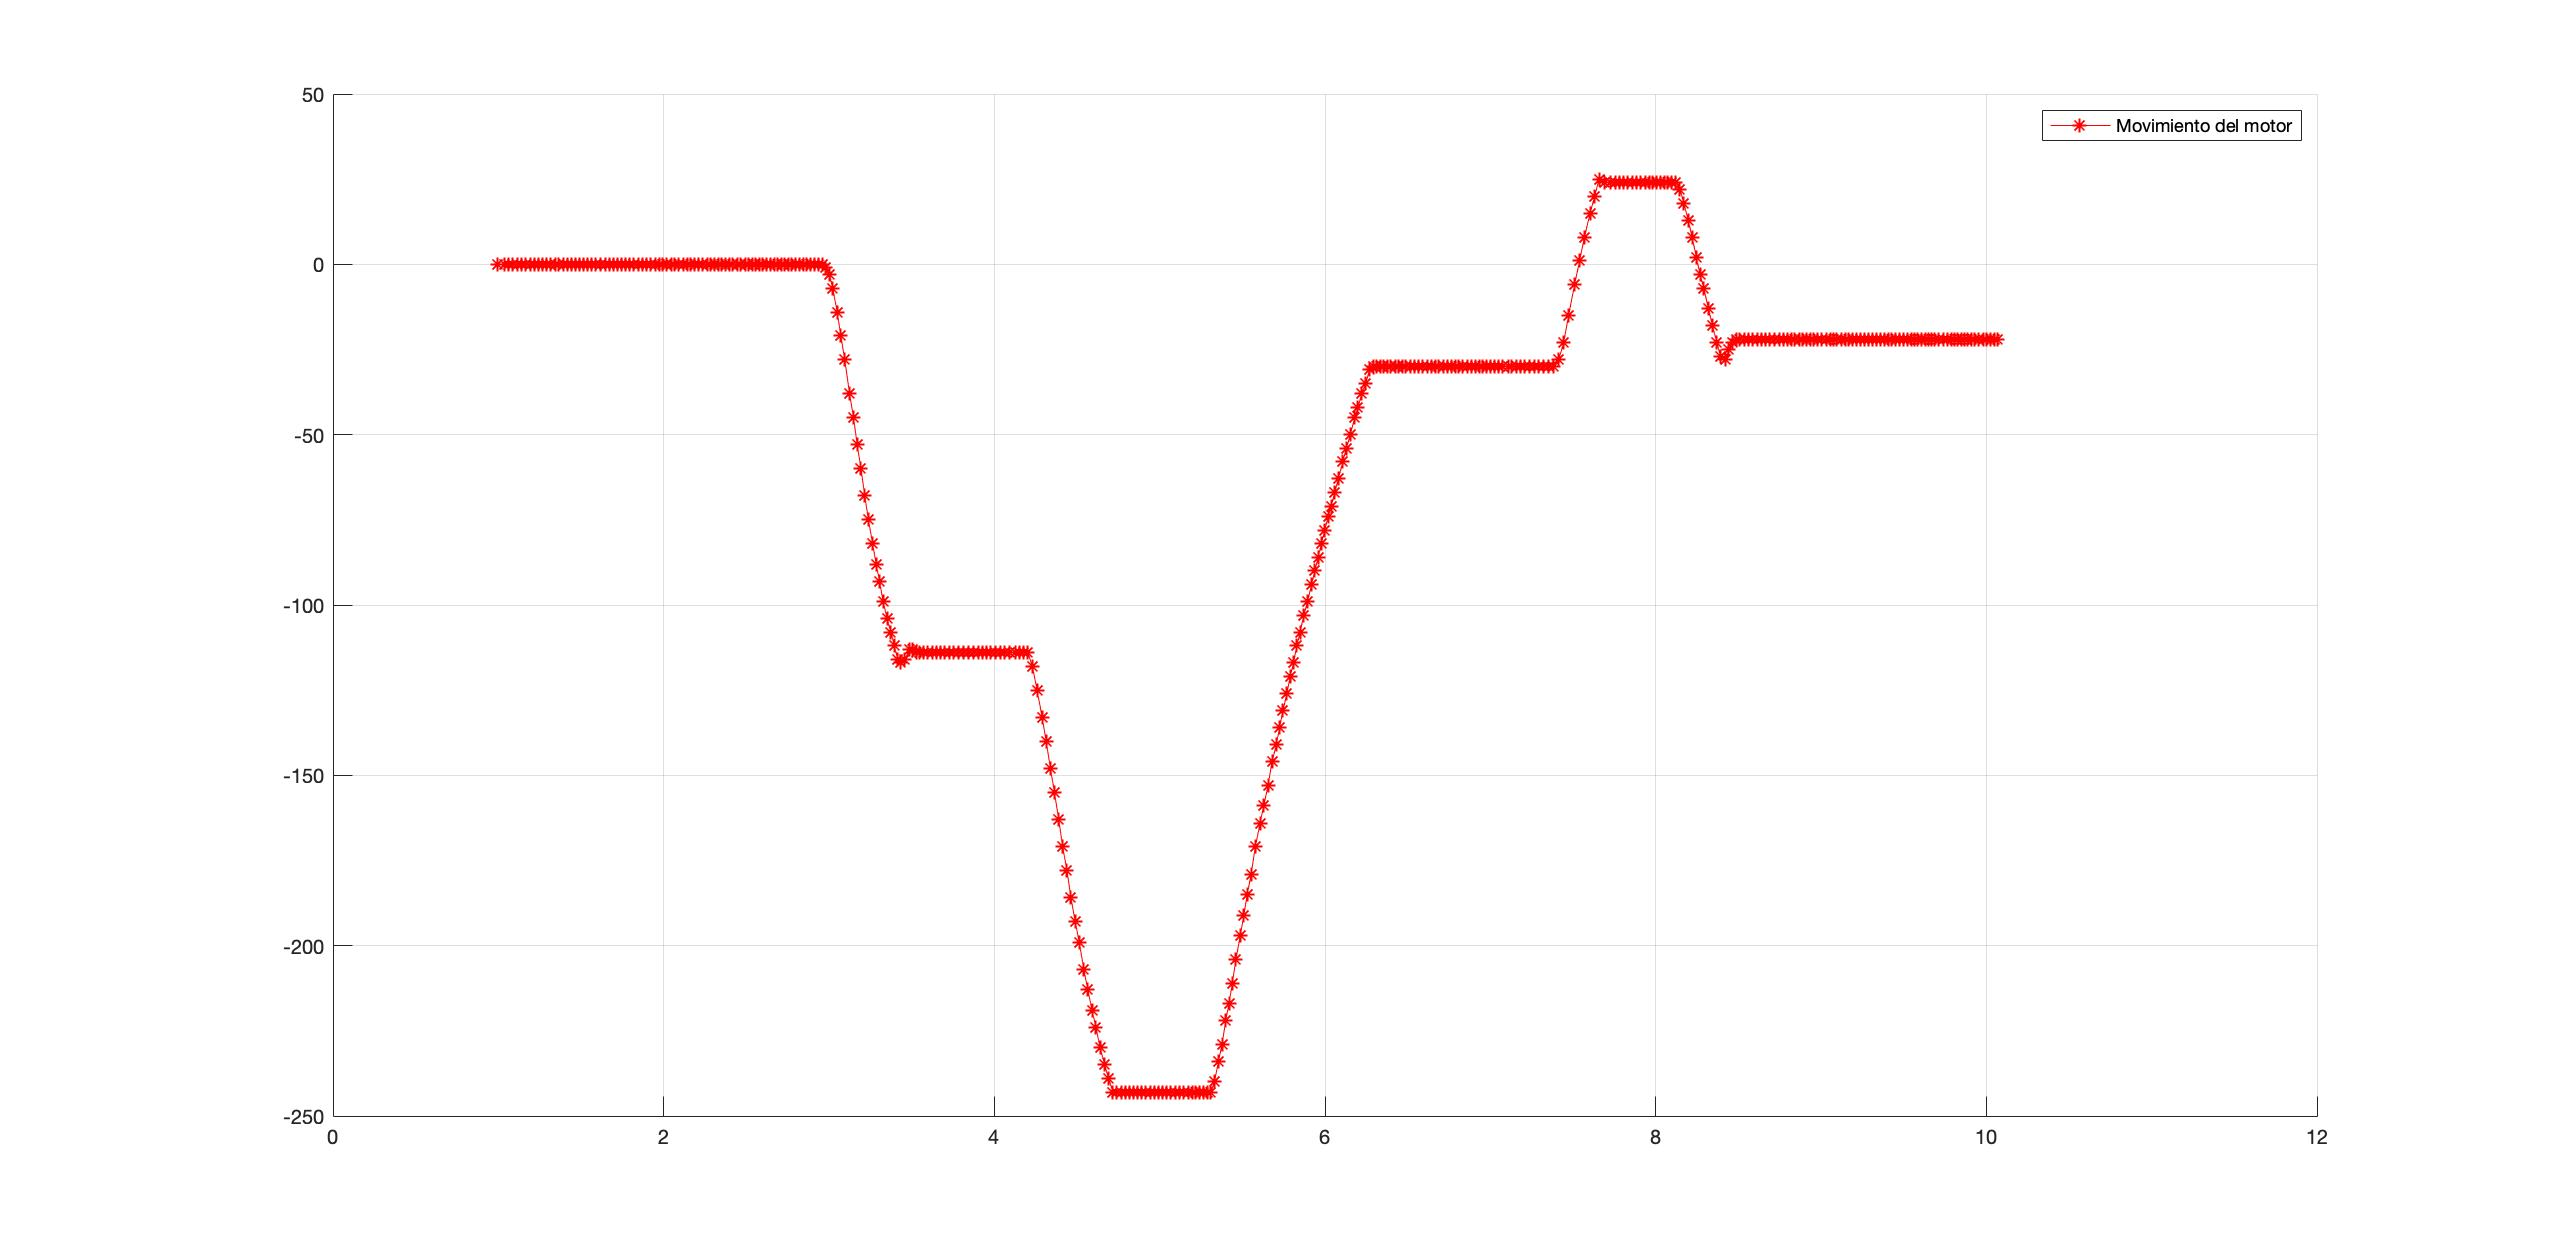
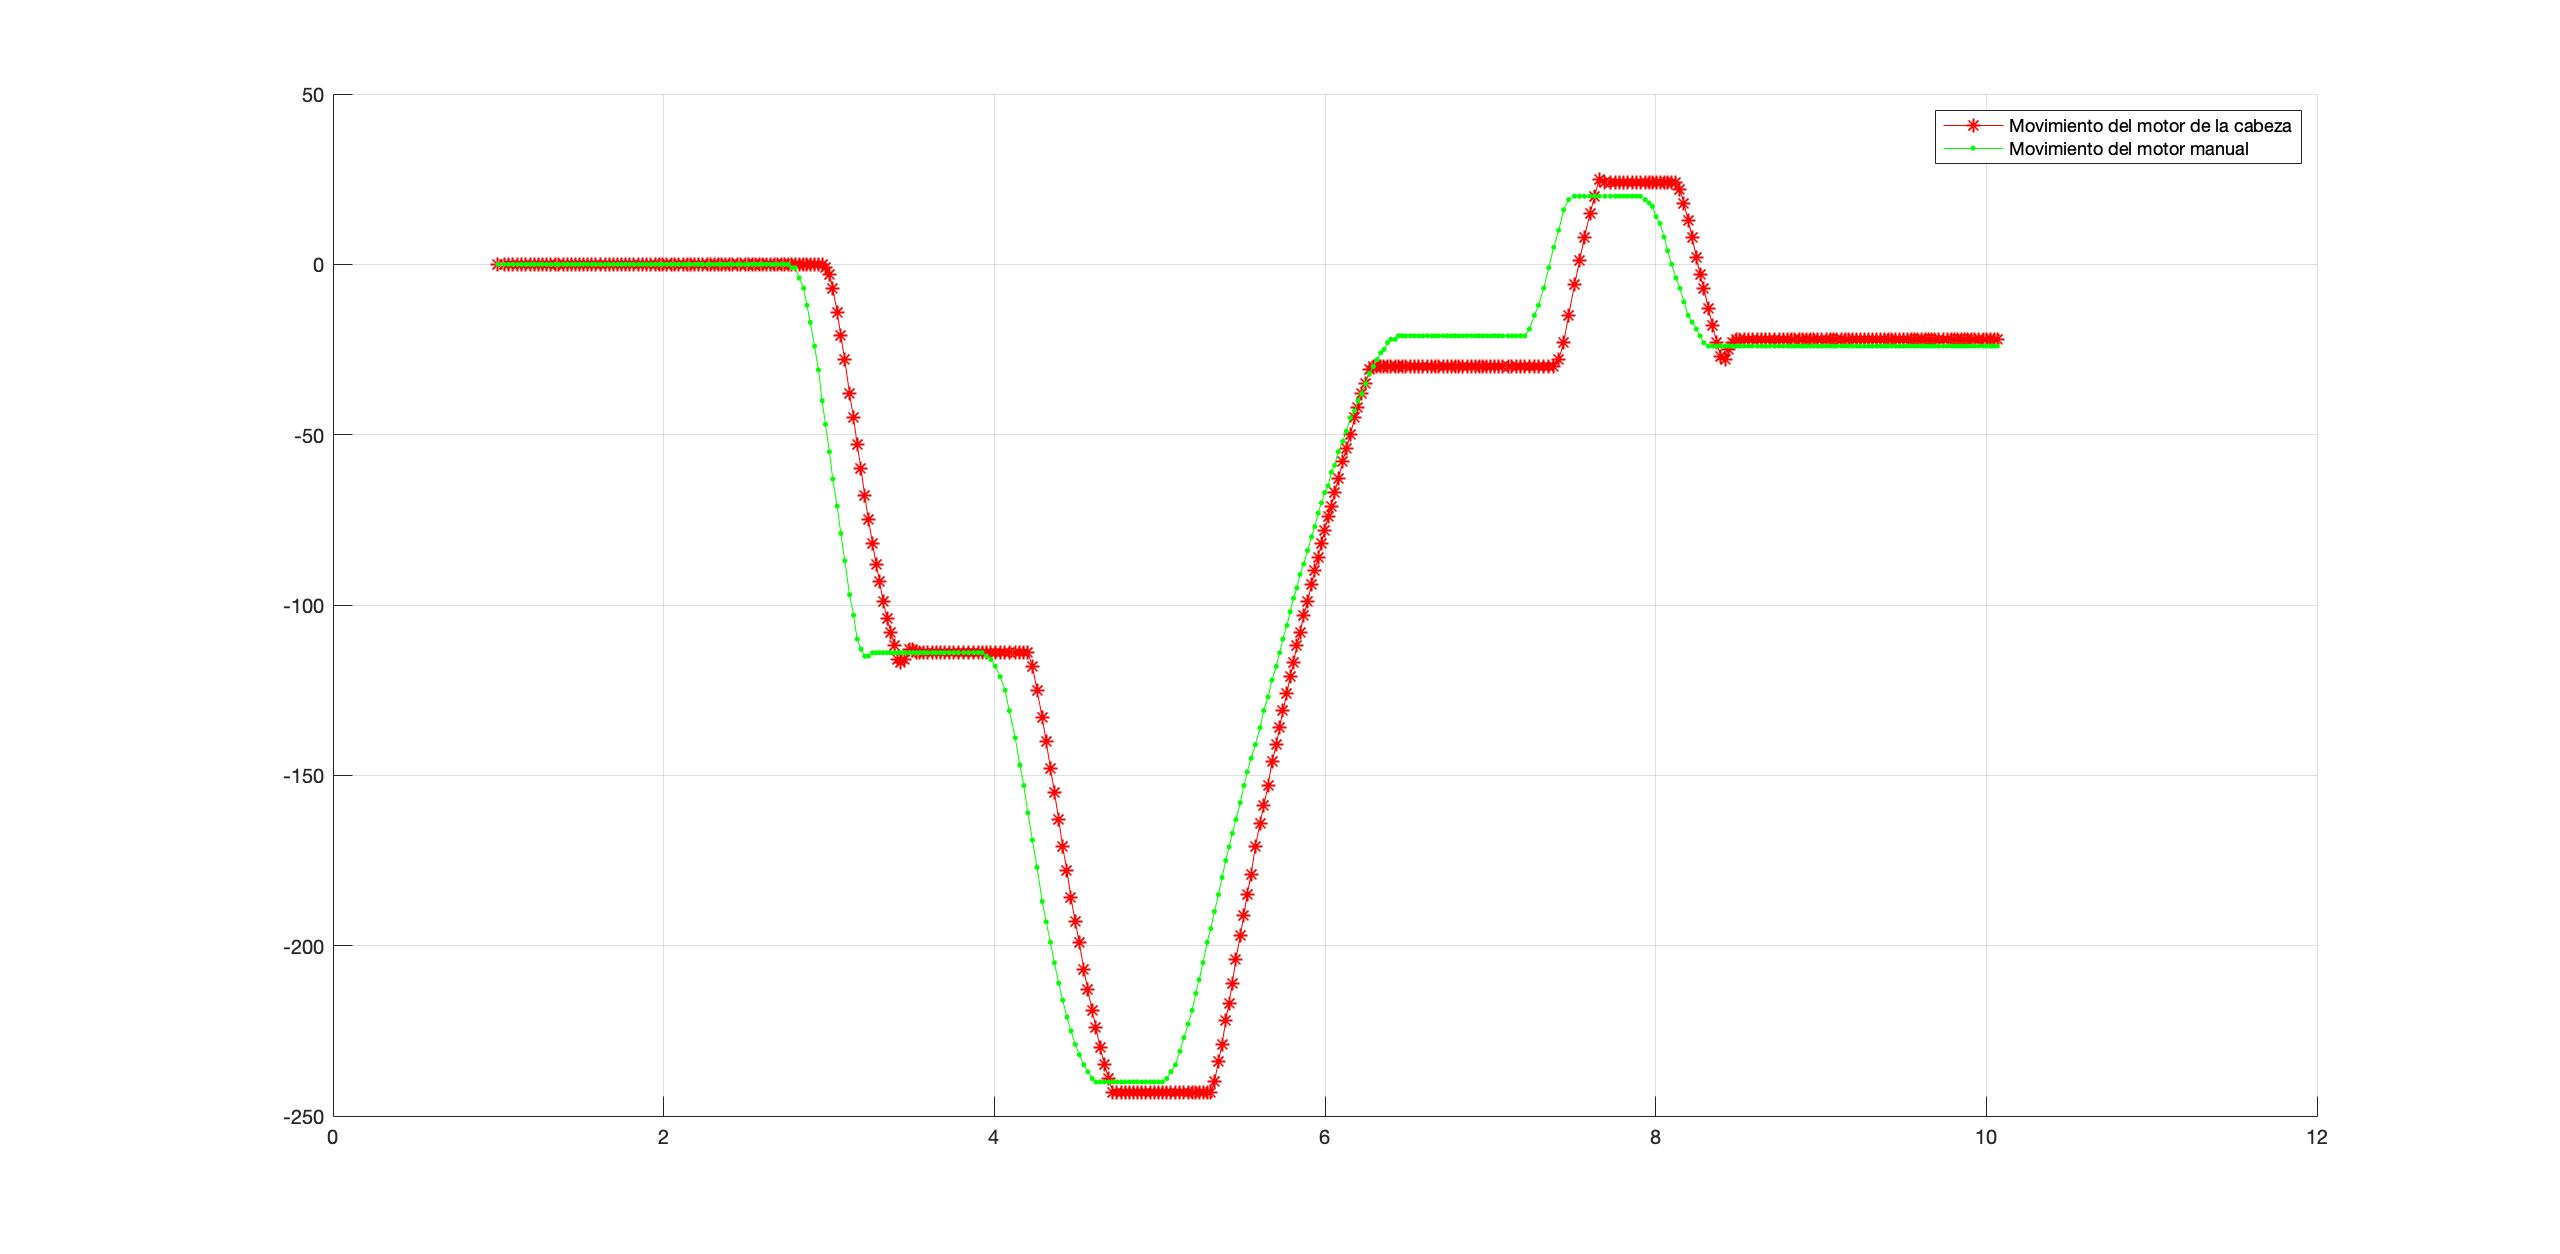
movimiento de cabeza con la mano

diff --git a/README.md b/README.md
@@ -14,6 +14,8 @@ _Al comienzo de la asignatura el profesor no recomendó guardar el id de nuestro
 _Empezamos el experimento comprobando que leíamos correctamente el giro de la rueda que posteriormente usaremos para el movimiento de la cabeza. Este movimiento lo hacemos inicialmente con la mano._
 ![Movimiento del motor a mano con K=0.3](https://github.com/manuTGrt/robotica/blob/main/fotos/cabeza_k0,3_Movido_M_A_color.jpg)
 
+![vídeo de cómo lo hago fuera del ordenador](https://github.com/manuTGrt/robotica/blob/main/videos/mover_cabeza_con_motor_manual.gif)
+
 _Posteriormente, movemos la cabeza unos grados indicados, en los que vemos que, variando la ganancia, la cabeza se movía de forma inestable, llegando a la conclusión de que un buen valor de ganancia para que no sea inestable sea 0,3._
 _Luego, intentamos mover la cabeza, cambiando la referencia de los grados indicados previamente a un valor variable, el cual variamos con la rueda, teniendo en cuenta el valor de la ganancia para ajustarlo a su mejor valor, en mi caso 0.3._
 _Esto lo podemos ver con la siguiente gráfica._
